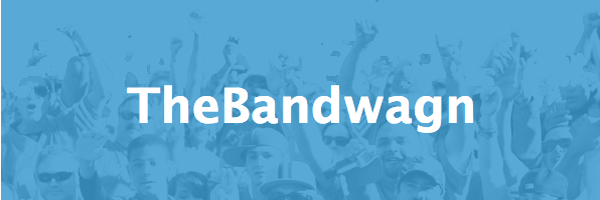
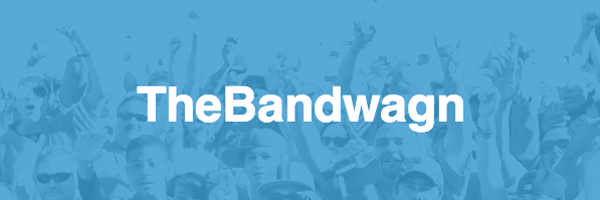
adding new image

diff --git a/app/assets/stylesheets/custom.css.scss b/app/assets/stylesheets/custom.css.scss
@@ -8,7 +8,7 @@ html {
 
 body {
   padding-top: 60px;
-  font-family: "lucida grande",tahoma,verdana,arial,sans-serif;
+  font-family: helvetica,arial,sans-serif;
   font-size: 16px;
 }
 

diff --git a/app/controllers/static_pages_controller.rb b/app/controllers/static_pages_controller.rb
@@ -10,7 +10,7 @@ class StaticPagesController < ApplicationController
   end
 
   def test
-  	list = ["marcus.gallagher@gmail.com", "martin.kleinbard@gmail.com"]
+  	list = ["marcus.gallagher@gmail.com"]
   	category = Category.where(show_to_users: true).first
   	list.each do |person|
   		NewsletterMailer.biweekly(category, person).deliver

diff --git a/config/environments/development.rb b/config/environments/development.rb
@@ -8,7 +8,7 @@ Bandwagon::Application.configure do
     :port =>           '587',
     :address =>        'smtp.gmail.com',
     :user_name =>      'marcus.gallagher@gmail.com',
-    :password =>       'nada',
+    :password =>       'coco13nut',
     :domain =>         'thebandwagn.com',
     :authentication => :plain
   }
